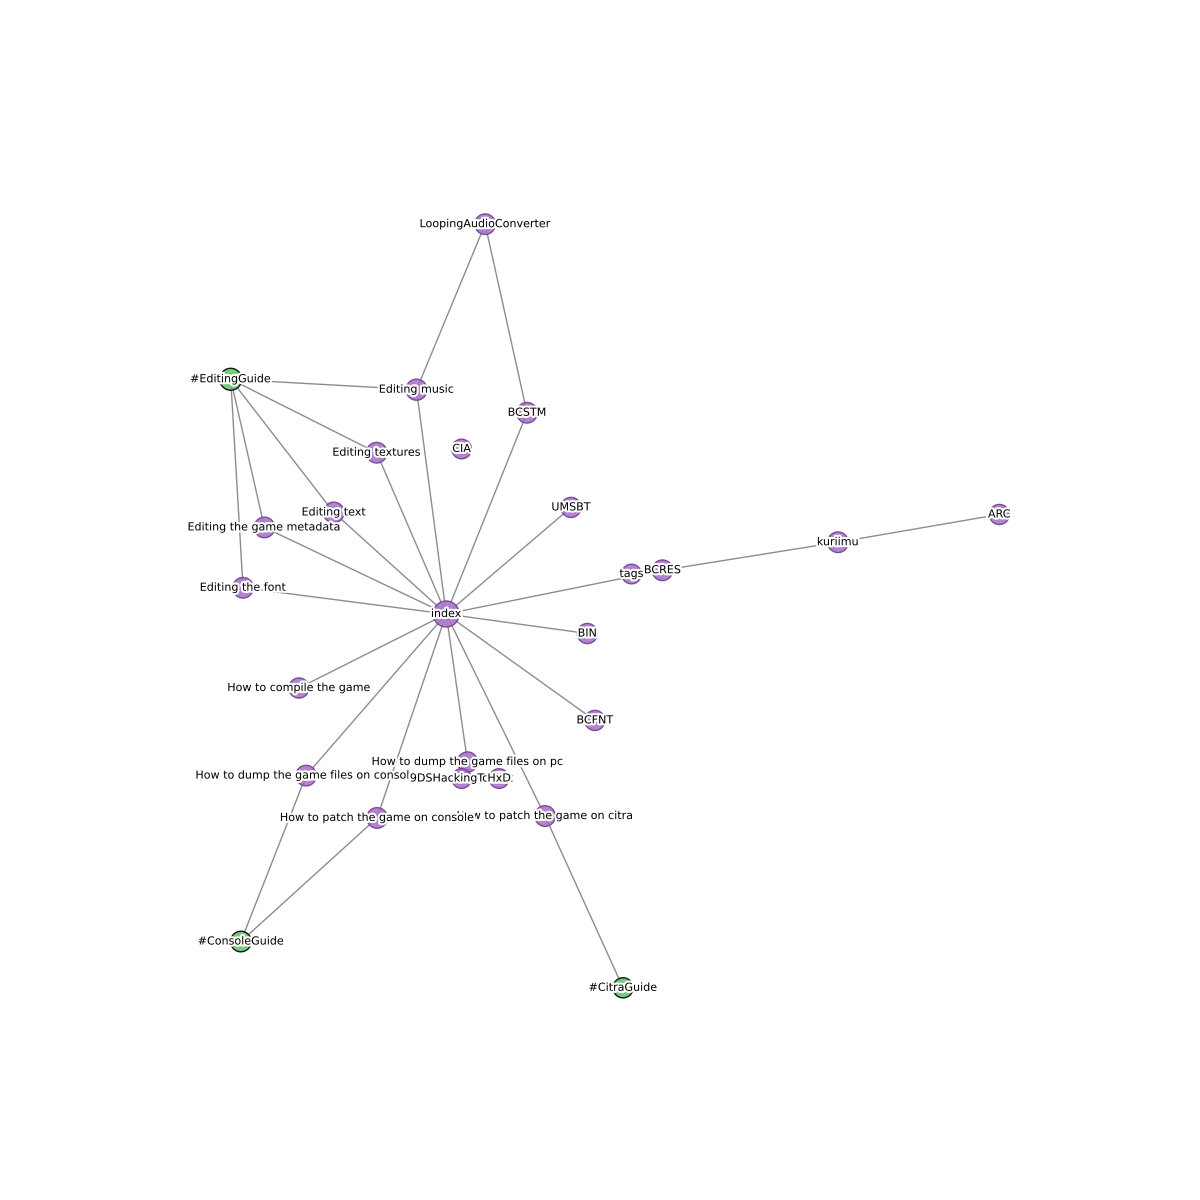
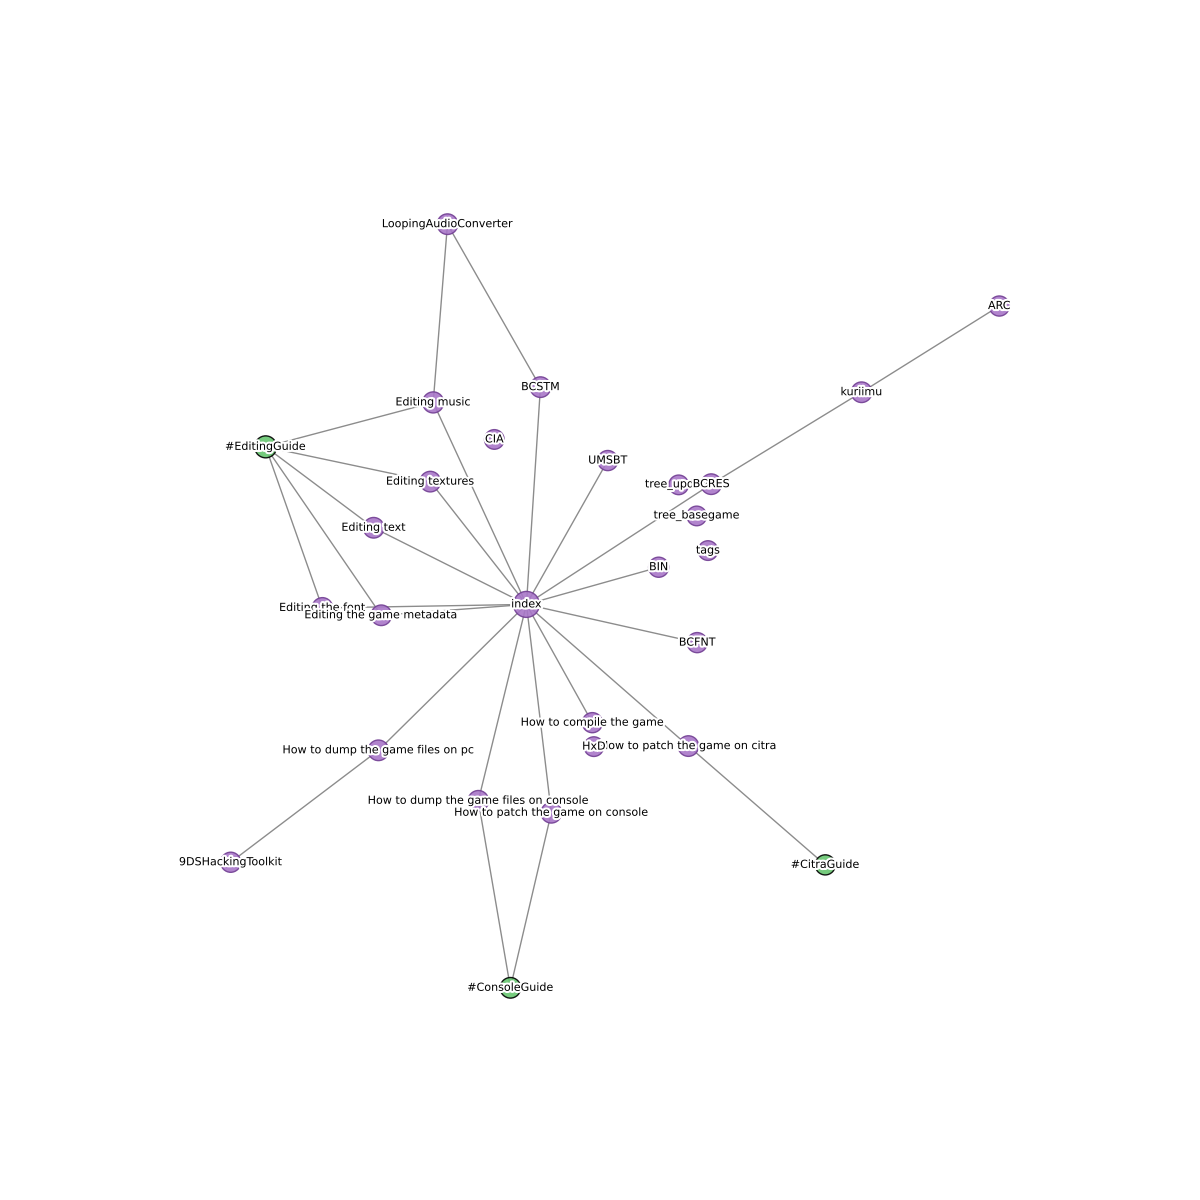
Refactored MakeGraph

diff --git a/makegraph.py b/makegraph.py
@@ -3,9 +3,8 @@ import re
 import networkx as nx
 import matplotlib
 
-matplotlib.use(
-    "Agg"
-)  # Setting the backend to 'Agg' for compatibility with environments lacking a display
+# Setting the backend to 'Agg' for compatibility with environments lacking a display
+matplotlib.use("Agg")
 import matplotlib.pyplot as plt
 from matplotlib.patheffects import withStroke
 
@@ -29,117 +28,176 @@ SHOW_NODE_BORDER = True
 USE_TAGS = True  # Toggle to connect files using tags
 
 # Sizes
-node_size_default = 200
+NODE_SIZE_DEFAULT = 200
 NODE_DISTANCE = 5
 FONT_SIZE = 8
-# Collect all .md files from the 'docs' directory
-files = [
-    os.path.join(root, filename)
-    for root, _, filenames in os.walk(path)
-    for filename in filenames
-    if filename.endswith(".md")
-]
 
-# Extract titles from filenames (excluding the extension)
-file_titles = {f: os.path.splitext(os.path.basename(f))[0] for f in files}
+def get_files_from_directory(directory_path, file_extension=".md"):
+    """
+    Retrieve all files with a specified extension from a directory.
+    
+    Parameters:
+    - directory_path (str): The path to the directory.
+    - file_extension (str): The file extension to filter by (default is ".md").
+    
+    Returns:
+    - list: A list of file paths.
+    """
+    return [
+        os.path.join(root, filename)
+        for root, _, filenames in os.walk(directory_path)
+        for filename in filenames
+        if filename.endswith(file_extension)
+    ]
 
-# Initialize a graph
-G = nx.Graph()
 
-# Add each file as a node to the graph
-for title in file_titles.values():
-    G.add_node(title)
+def extract_file_titles(files):
+    """
+    Extract titles from filenames (excluding the extension).
+    
+    Parameters:
+    - files (list): A list of file paths.
+    
+    Returns:
+    - dict: A dictionary mapping file paths to titles.
+    """
+    return {f: os.path.splitext(os.path.basename(f))[0] for f in files}
 
-# Extracting tags from each file and adding as nodes
-tags = set()
-if USE_TAGS:
-    tag_pattern = r"#[\w\d_\-]+"  # Matches words like #tagname, sadly picks up EVERYTHING thats behind a hashtag
 
+def extract_tags_from_files(files, pattern):
+    """
+    Extract tags from each file based on a regex pattern.
+    
+    Parameters:
+    - files (list): A list of file paths.
+    - pattern (str): The regex pattern to match tags.
+    
+    Returns:
+    - set: A set of unique tags.
+    """
+    tags = set()
     for file in files:
         with open(file, "r", encoding="utf-8", errors="ignore") as f:
             content = f.read()
-            file_tags = re.findall(tag_pattern, content)
+            file_tags = re.findall(pattern, content)
             tags.update(file_tags)
+    return tags
 
-    # Adding each unique tag as a node
+
+def create_graph_from_files_and_tags(files, file_titles, tags):
+    """
+    Create a graph from files and tags. Files and tags are nodes, and links between them are edges.
+    
+    Parameters:
+    - files (list): A list of file paths.
+    - file_titles (dict): A dictionary mapping file paths to titles.
+    - tags (set): A set of unique tags.
+    
+    Returns:
+    - NetworkX Graph: A graph object.
+    """
+    G = nx.Graph()
+    
+    # Add each file as a node to the graph
+    for title in file_titles.values():
+        G.add_node(title)
+    
+    # Add each unique tag as a node
     for tag in tags:
         G.add_node(tag)
-
-# Scan each file in the directory for links and tags
-for file, title in file_titles.items():
-    with open(file, "r", encoding="utf-8", errors="ignore") as f:
-        content = f.read()
-
-        # Connect files based on [[links]]
-        for match in re.findall(r"\[\[(.*?)\]\]", content):
-            if match in file_titles.values() and title != match:
-                G.add_edge(title, match)
-
-        # Connect files to tags if USE_TAGS is True
-        if USE_TAGS:
+    
+    # Scan each file for links and tags to add edges
+    for file, title in file_titles.items():
+        with open(file, "r", encoding="utf-8", errors="ignore") as f:
+            content = f.read()
+            
+            # Connect files based on [[links]]
+            for match in re.findall(r"\[\[(.*?)\]\]", content):
+                if match in file_titles.values() and title != match:
+                    G.add_edge(title, match)
+            
+            # Connect files to tags
             for tag in tags:
                 if tag in content:
                     G.add_edge(title, tag)
+                    
+    return G
 
 
-# Determine the size of each node based on its degree (number of connections)
-node_size = [node_size_default + (v * 10) for v in dict(G.degree()).values()]
+def plot_graph(G, tags):
+    """
+    Plot the graph using matplotlib.
+    
+    Parameters:
+    - G (NetworkX Graph): The graph object.
+    - tags (set): A set of unique tags.
+    """
+    node_size = [NODE_SIZE_DEFAULT + (v * 10) for v in dict(G.degree()).values()]
+    pos = nx.kamada_kawai_layout(G)
+    
+    plt.figure(figsize=(12, 12))
+    
+    if IS_TRANSPARENT:
+        plt.gca().set_facecolor("none")
+    else:
+        plt.gca().set_facecolor(BACKGROUND_COLOR)
 
-# Generate positions for each node
+    node_colors = [TAG_NODE_COLOR if node in tags else NODE_COLOR for node in G.nodes()]
+    border_colors = [
+        TAG_BORDER_COLOR
+        if node in tags
+        else (NODE_BORDER_COLOR if SHOW_NODE_BORDER else NODE_COLOR)
+        for node in G.nodes()
+    ]
 
-pos = nx.kamada_kawai_layout(G)
-#, NODE_DISTANCE)
+    nx.draw(
+        G,
+        pos,
+        with_labels=False,
+        node_size=node_size,
+        node_color=node_colors,
+        edge_color=EDGE_COLOR,
+        edgecolors=border_colors,
+        linewidths=1 if SHOW_NODE_BORDER else 0,
+        alpha=0.9,
+    )
 
-# Draw the graph
-plt.figure(figsize=(12, 12))
+    if SHOW_FILENAMES:
+        for node, (x, y) in pos.items():
+            plt.text(
+                x,
+                y,
+                node,
+                color=FONT_COLOR,
+                fontsize=FONT_SIZE,
+                ha="center",
+                va="center",
+                path_effects=[withStroke(linewidth=3, foreground=FONT_OUTLINE_COLOR)],
+            )
 
-if IS_TRANSPARENT:
-    plt.gca().set_facecolor("none")
-else:
-    plt.gca().set_facecolor(BACKGROUND_COLOR)
+    assets_path = os.path.join(path, "assets")
+    if not os.path.exists(assets_path):
+        os.makedirs(assets_path)
 
-# Separate the node colors: files vs. tags
-node_colors = [TAG_NODE_COLOR if node in tags else NODE_COLOR for node in G.nodes()]
-border_colors = [
-    TAG_BORDER_COLOR
-    if node in tags
-    else (NODE_BORDER_COLOR if SHOW_NODE_BORDER else NODE_COLOR)
-    for node in G.nodes()
-]
+    plt.savefig(
+        os.path.join(assets_path, "graph.png"),
+        facecolor=("none" if IS_TRANSPARENT else BACKGROUND_COLOR),
+        transparent=IS_TRANSPARENT,
+    )
 
-nx.draw(
-    G,
-    pos,
-    with_labels=False,
-    node_size=node_size,
-    node_color=node_colors,
-    edge_color=EDGE_COLOR,
-    edgecolors=border_colors,
-    linewidths=1 if SHOW_NODE_BORDER else 0,
-    alpha=0.9,
-)
 
-if SHOW_FILENAMES:
-    for node, (x, y) in pos.items():
-        plt.text(
-            x,
-            y,
-            node,
-            color=FONT_COLOR,
-            fontsize=FONT_SIZE,
-            ha="center",
-            va="center",
-            path_effects=[withStroke(linewidth=3, foreground=FONT_OUTLINE_COLOR)],
-        )
+# Constants
+NODE_SIZE_DEFAULT = 200
 
-# Check if the 'assets' folder exists in 'docs', if not create it
-assets_path = os.path.join(path, "assets")
-if not os.path.exists(assets_path):
-    os.makedirs(assets_path)
+# Retrieve files and titles
+files = get_files_from_directory(path)
+file_titles = extract_file_titles(files)
 
-# Save the graph as a PNG file in the 'assets' directory
-plt.savefig(
-    os.path.join(assets_path, "graph.png"),
-    facecolor=("none" if IS_TRANSPARENT else BACKGROUND_COLOR),
-    transparent=IS_TRANSPARENT,
-)
+# Extract tags
+tag_pattern = r"#[\w\d_\-]+"  # Can be optimized further if needed
+tags = extract_tags_from_files(files, tag_pattern)
+
+# Create graph and plot it
+G = create_graph_from_files_and_tags(files, file_titles, tags)
+plot_graph(G, tags)
+
